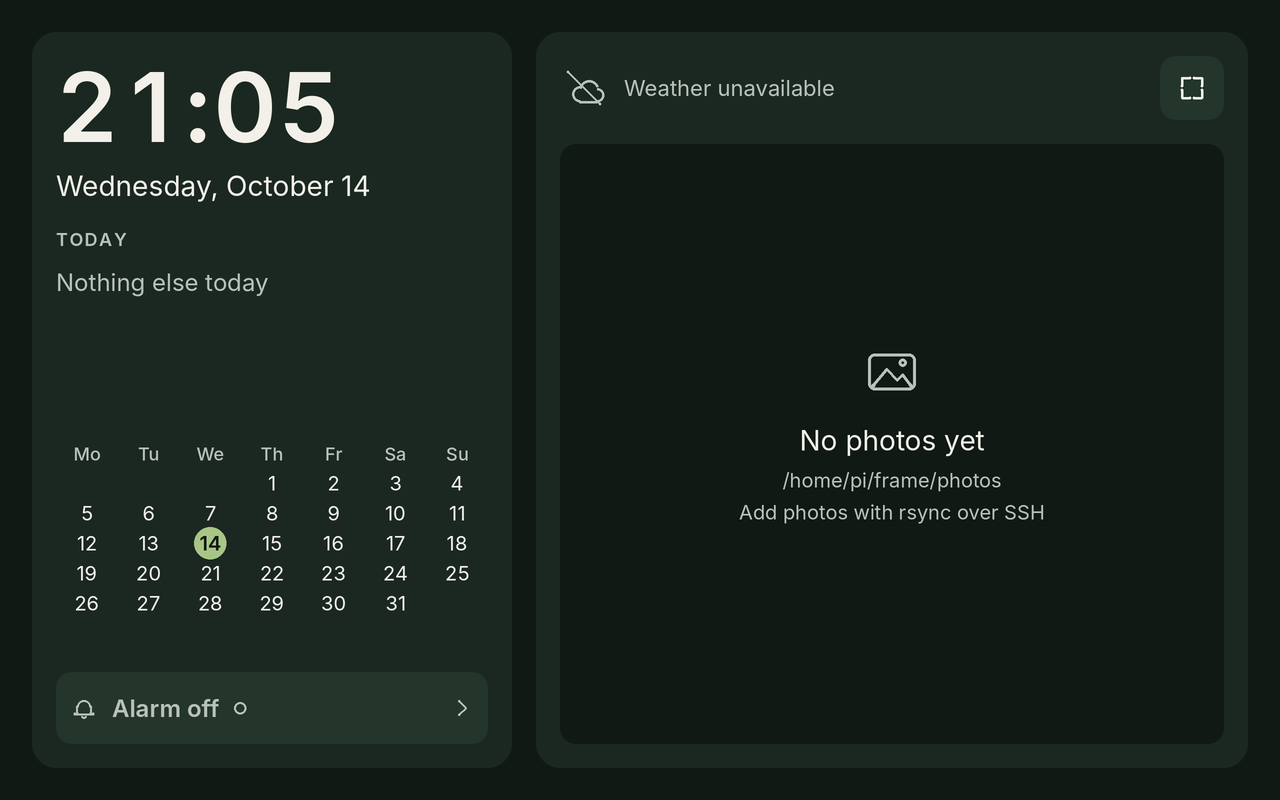
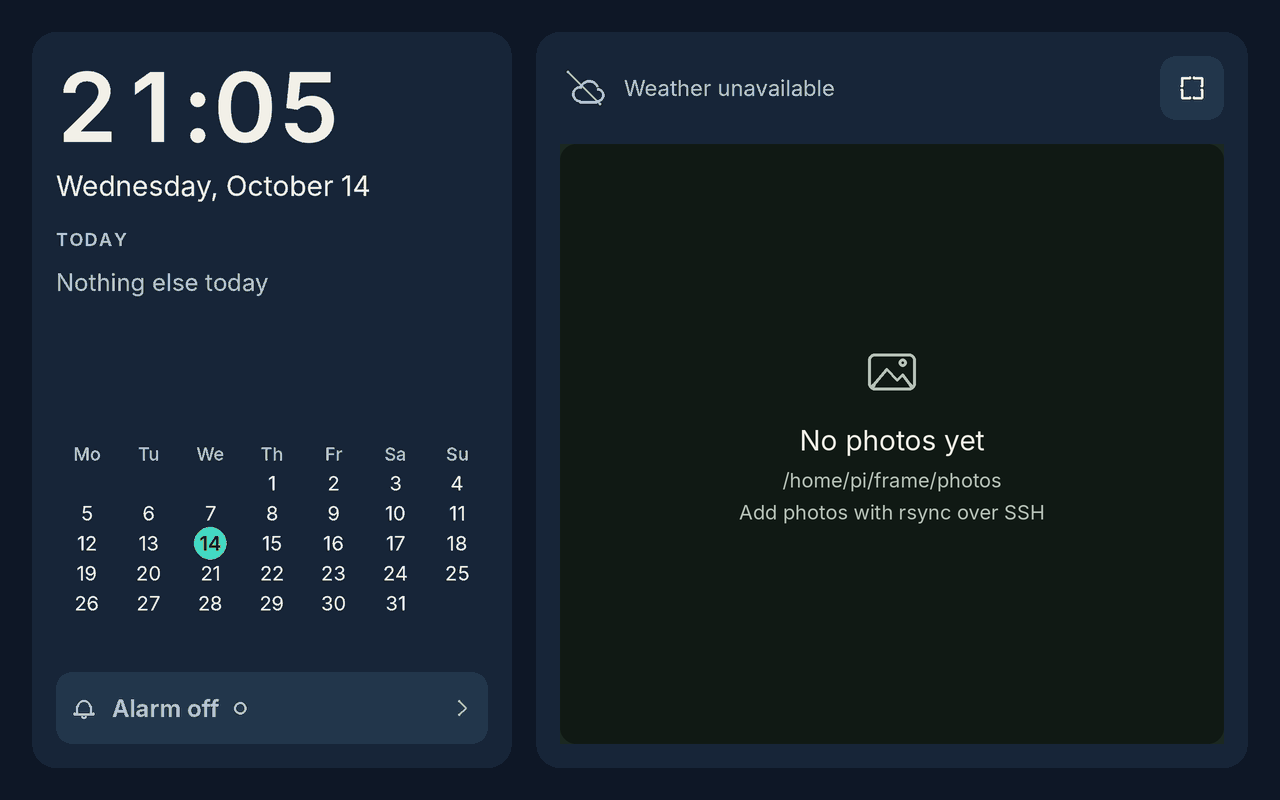
style: refresh picture frame color palette

diff --git a/docs/superpowers/specs/2026-10-14-pi-picture-frame-design.md b/docs/superpowers/specs/2026-10-14-pi-picture-frame-design.md
@@ -1,6 +1,6 @@
 # Pi Picture Frame — Design Spec
 
-**Date:** 2026-10-14 · **Status:** Draft for review · **Rev 2:** UX/UI design pass (see "Design review changes" at the end)
+**Date:** 2026-10-14 · **Status:** Draft for review · **Rev 3:** contemporary navy and teal palette pass (see "Design review changes" at the end)
 
 ## Goal
 A Raspberry Pi 3 wooden tabletop frame: photo slideshow + clock/date, calendar, weather and alarm, touch-controlled, runs unattended for weeks.
@@ -22,17 +22,17 @@ Raspberry Pi OS Lite · Python 3 + pygame (SDL KMS/DRM, no desktop) · Open-Mete
 ### Colors
 | Token | Hex | Use |
 |---|---|---|
-| `bg` | `#101914` | Screen background |
-| `panel` | `#1B2821` | Panels, cards |
-| `raised` | `#24352B` | Buttons and tappable rows on a panel |
-| `pressed` | `#2F4437` | Any button while the finger is down |
-| `divider` | `#2A3A30` | 1 px row separators in Settings |
-| `text` | `#F2F0E8` | Primary text (15.7:1 on `bg`) |
-| `secondary` | `#B7C2B8` | Labels, metadata (8.3:1 on `panel`) |
-| `accent` | `#A8C686` | Today, On states, primary buttons; text on it is `bg` (9.5:1) |
-| `highlight` | `#E6B86A` | To-do marker, warnings |
-| `alarm` | `#D96B5F` | Alarm label, ring pulse, missed-alarm stripe. **Never** behind `text` (2.96:1 fails); if used as a fill, text on it is `bg` (5.3:1) |
-| `night` | `#6B786E` | All night clock text including AM/PM, on pure black `#000000` (4.5:1) |
+| `bg` | `#0E1726` | Midnight navy screen background |
+| `panel` | `#172538` | Blue-slate panels and cards |
+| `raised` | `#22364B` | Buttons and tappable rows on a panel |
+| `pressed` | `#2D4862` | Any button while the finger is down |
+| `divider` | `#2B4054` | 1 px row separators in Settings |
+| `text` | `#F4F7FB` | Cool white primary text |
+| `secondary` | `#B7C6D6` | Blue-gray labels and metadata |
+| `accent` | `#43D9C3` | Vivid teal for Today, On states, and primary buttons; text on it is `bg` |
+| `highlight` | `#F2B66D` | Warm amber to-do marker and warnings |
+| `alarm` | `#FF766F` | Coral alarm label, ring pulse, and missed-alarm stripe. **Never** behind `text`; use `bg` for any alarm-colored fill |
+| `night` | `#929DAA` | All night clock text including AM/PM, on pure black `#000000` (7.6:1) |
 
 ### Type scale
 Inter for clock, numbers and headings; Atkinson Hyperlegible for UI text. Nothing smaller than 18 px.
@@ -63,17 +63,17 @@ Rule: text ≥ 4.5:1 against its actual background in every state; icons and con
 
 | Pair | Ratio |
 |---|---|
-| `text` on `bg` / `panel` / `raised` / `pressed` | 15.7 / 13.4 / 11.4 / 9.2 |
-| `secondary` on `bg` / `panel` / `raised` / `pressed` | 9.8 / 8.3 / 7.1 / 5.7 |
-| `bg` on `accent` / pressed accent `#BCD69E` | 9.5 / 11.3 |
-| `alarm` on `bg` (ALARM caption only) | 5.3 |
-| `night` on black | 4.5 |
-| `text` / `secondary` on a photo chip over a pure-white photo (`bg` 80% → `#404743`) | 8.4 / 5.2 |
+| `text` on `bg` / `panel` / `raised` / `pressed` | 16.7 / 14.4 / 11.5 / 8.8 |
+| `secondary` on `bg` / `panel` / `raised` / `pressed` | 10.3 / 8.9 / 7.1 / 5.5 |
+| `bg` on `accent` / pressed accent `#61E5D2` | 10.2 / 11.7 |
+| `alarm` on `bg` (ALARM caption only) | 6.9 |
+| `night` on black | 7.6 |
+| `text` / `secondary` on a photo chip over a pure-white photo (`bg` 80% opacity) | Both exceed 4.5:1 |
 | Icon `secondary` on `raised` (toggle-off knob, disabled stepper) | 7.1 |
 
-Not allowed (measured failures): `alarm` text on `raised` (3.8) or `pressed` (3.1); `text` on `alarm` (3.0); dimmed greys like `#6B766D` on `panel` (3.2). `raised` buttons on `panel` are only 1.2:1, so a button is identified by its icon or label (≥ 7:1), never by its fill alone.
+Not allowed: `alarm` as text on buttons or as a background behind `text`. `raised` buttons on `panel` are only 1.25:1, so a button is identified by its icon or label, never by its fill alone.
 
-**Disabled state** (stepper at the end of its range, night start/end while night mode is off): the button loses its `raised` fill and its icon turns `secondary`, and values stay `secondary`. That is still 7–8:1, readable but clearly not active. Disabled buttons ignore taps.
+**Disabled state** (stepper at the end of its range, night start/end while night mode is off): the button loses its `raised` fill and its icon turns `secondary`, and values stay `secondary`. That is still at least 7:1, readable but clearly not active. Disabled buttons ignore taps.
 
 ### Icons
 Outlined, 2 px rounded strokes, pre-rendered PNGs in 32 and 48 px.
@@ -297,3 +297,8 @@ Confirm exact Pi 3 model and touchscreen model (touch interface, display control
 **Mockups:** `docs/design/` (dashboard, dashboard-snoozed, dashboard-empty, photo, alarm, night-clock, settings, settings-save-error). They use Inter for all text because Atkinson Hyperlegible wasn't available to the renderer; the build uses Atkinson for UI text as specified.
 
 **Considered, deferred** (not Phase 1): pause button in Photo mode; day/night variants of the clear icon; ±2 px hourly layout shift against IPS image retention; hold-to-repeat on steppers.
+
+
+### Rev 3 — Contemporary navy and teal palette
+
+The forest-green palette is replaced with midnight navy, blue-slate surfaces, a bright teal action color, and warm amber details. This gives the frame a cleaner, more current look while retaining the calm low-light character. Coral remains reserved for alarms. All palette contrast ratios above are recalculated for these tokens; text remains at or above 4.5:1 in each listed state. The updated mockups are in `docs/design/`.
